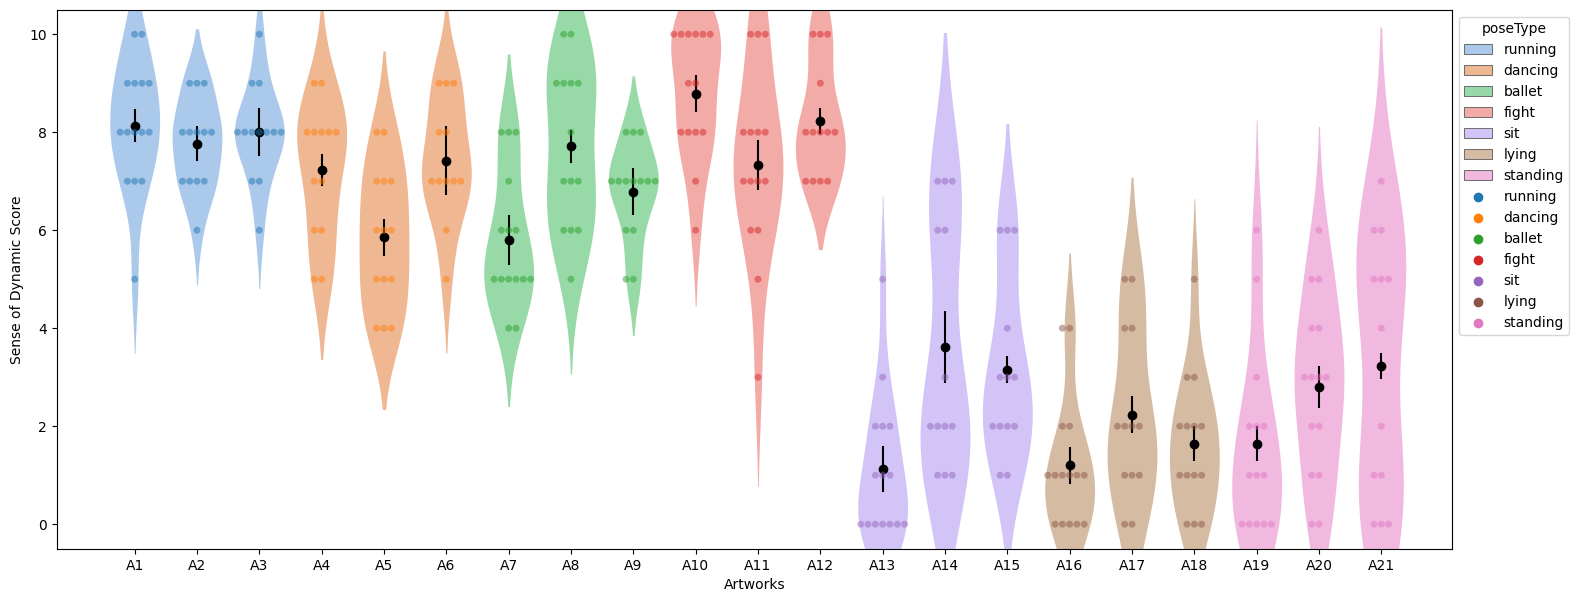
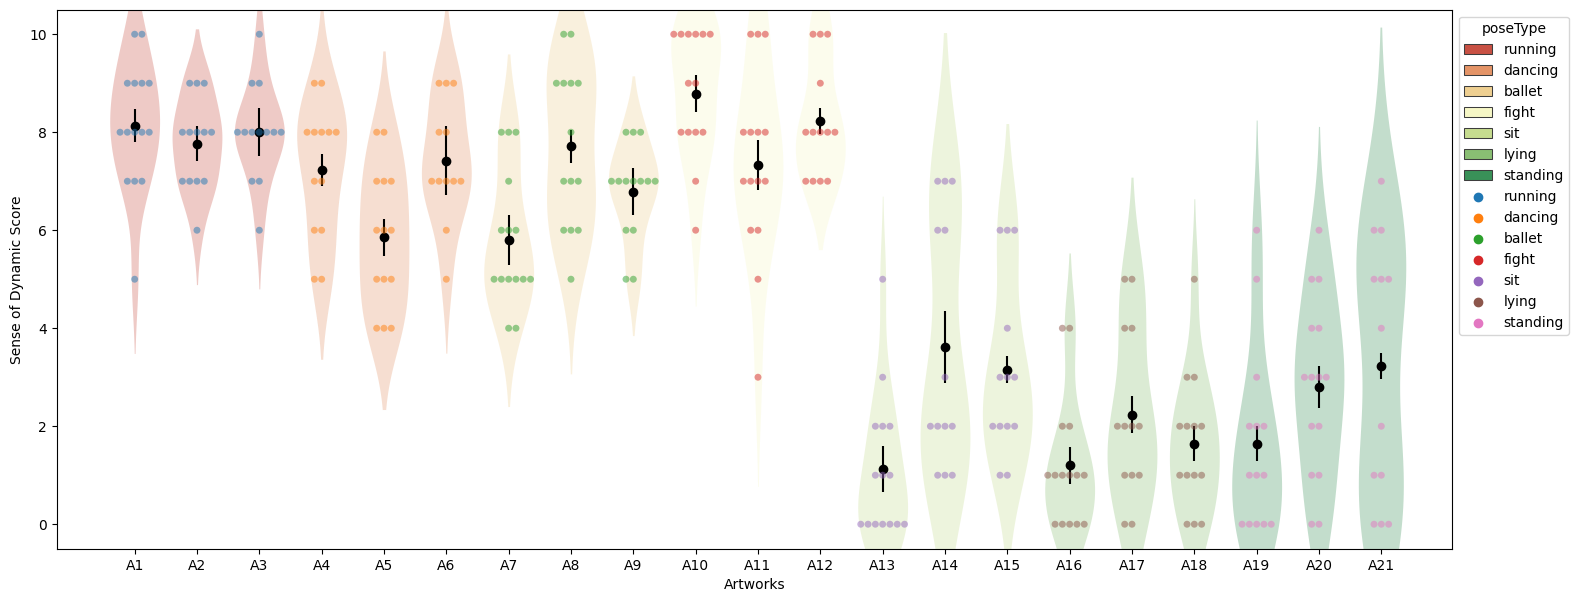
additional

Changed region(s): [[0.0621, 0.0, 0.5586, 0.7176], [0.5275, 0.0897, 0.8999, 0.9269], [0.931, 0.0598, 0.962, 0.299]]

diff --git a/code/artworkAnalyze.py b/code/artworkAnalyze.py
@@ -3,7 +3,8 @@ import numpy as np
 import matplotlib.pyplot as plt
 import seaborn as sns
 import matplotlib.image as mpimg 
-
+from PIL import Image
+#https://r02b.github.io/seaborn_palettes/
 
 def sod_graph():
     mean = df.groupby('artwork').sod.mean().reset_index()
@@ -15,11 +16,12 @@ def sod_graph():
     std = df.groupby('artwork').sod.std() / np.sqrt(df.groupby('artwork').sod.count())
 
     ax = plt.figure(figsize = (18,7))
-    ax = sns.violinplot(x="artwork", y="sod", data=df, hue="poseType", linewidthfloat=0.01, palette='pastel', dodge=False, inner=None)
+    ax = sns.violinplot(x="artwork", y="sod", data=df, hue="poseType", linewidthfloat=0.01, palette="RdYlGn", dodge=False, inner=None)
 
     violins = [c for i, c in enumerate(ax.collections)]  
     [v.set_edgecolor("white") for v in violins]  # 전체 violin edgecolor 변경
     [v.set_linewidth(0.01) for v in violins]  # 전체 violin edgecolor 변경
+    [v.set_alpha(0.3) for v in violins]
     violins[3].set_edgecolor("k")        # Sunday violin edgecolor 변경
 
     ax = sns.swarmplot (x="artwork", y="sod", data=df, dodge=False, hue="poseType", alpha=.5)
@@ -34,33 +36,41 @@ def sod_graph():
 def tempo_graph():
     df_new = df[['sod', 'tempo_score']].value_counts().reset_index(name='count')
     print(df_new.head(4))
+    df_ = df[df["artwork"] == 'A14'] 
+
     ax = plt.figure(figsize = (4,4))
-    ax = sns.relplot(data=df_new, x="sod", y="tempo_score",  size = 'count', hue="count")
-    ax = sns.jointplot(x="sod", y="tempo_score", data=df_new, kind="kde", color="grey")
+    #ax = sns.relplot(data=df_new, x="sod", y="tempo_score",  size = 'count', hue="count")
+    sns.set_theme(style="ticks")
+    ax = sns.jointplot(x="sod", y="tempo_score", data=df, kind="hist", alpha=0.0, cmap="Blues")
+    ax = sns.kdeplot(x="sod", y="tempo_score", data=df, fill=True, alpha=.7 ,cmap="Blues")
 
     #ax.set_xlabel("Tempo Level")
     #ax.set_ylabel("Sense of Dynamic Score")
-    plt.savefig('../plots/tempo_graph.png', bbox_inches='tight')
+    plt.savefig('../plots/corr_tempo.png', bbox_inches='tight')
 
 def pitch_graph():
     df_new = df[['sod', 'pitch_score']].value_counts().reset_index(name='count')
     print(df_new.head(4))
     ax = plt.figure(figsize = (4,4))
-    ax = sns.relplot(data=df_new, x="sod", y="pitch_score",  size = 'count', hue="count")
-
+    #ax = sns.relplot(data=df_new, x="sod", y="pitch_score",  size = 'count', hue="count")
+    ax = sns.jointplot(x="sod", y="pitch_score", data=df, kind="hist", alpha=0.0, cmap="Blues")
+    ax = sns.kdeplot(x="sod", y="pitch_score", data=df, fill=True, alpha=.7 ,cmap="Blues")
+    
     #ax.set_xlabel("Pitch Level")
     #ax.set_ylabel("Sense of Dynamic Score")
-    plt.savefig('../plots/pitch_graph.png', bbox_inches='tight')
+    plt.savefig('../plots/corr_pitch.png', bbox_inches='tight')
 
 def density_graph():
     df_new = df[['sod', 'density_score']].value_counts().reset_index(name='count')
     print(df_new.head(4))
     ax = plt.figure(figsize = (4,4))
-    ax = sns.relplot(data=df_new, x="sod", y="density_score",  size = 'count', hue="count")
+    #ax = sns.relplot(data=df_new, x="sod", y="density_score",  size = 'count', hue="count")
+    ax = sns.jointplot(x="sod", y="density_score", data=df, kind="hist", alpha=0.0, cmap="Blues")
+    ax = sns.kdeplot(x="sod", y="density_score", data=df, fill=True, alpha=.7 ,cmap="Blues")
 
     #ax.set_xlabel("Density Level")
     #ax.set_ylabel("Sense of Dynamic Score")
-    plt.savefig('../plots/density_graph.png', bbox_inches='tight')
+    plt.savefig('../plots/corr_density.png', bbox_inches='tight')
 
 def parsing(grid):
     grid = grid.replace('[','').replace(']','').split(',')
@@ -68,8 +78,8 @@ def parsing(grid):
     return grid
 
 def grid_heatmap(target_artwork):
-    bg = mpimg.imread('../paintings/' + target_artwork + '.png') 
-    
+    bg = Image.open('../paintings/' + target_artwork + '.jpg').convert('L')
+    #bg = mpimg.imread('../paintings/' + target_artwork + '.jpg') 
     df_art = df[df['artwork'] == target_artwork]
 
     df["grids"]=""
@@ -87,18 +97,22 @@ def grid_heatmap(target_artwork):
             grid_sum = np.asarray(grids)
         else:
             grid_sum += np.asarray(grids)
-        
+    
+    ax = plt.figure(figsize = (10,10))
+    ax = sns.heatmap(grid_sum, annot=True, cmap="Oranges", cbar=False, yticklabels=False, xticklabels=False)
+    ax.tick_params(left=False, bottom=False) ## other options are right and top
 
 
-    print(grid_sum)
-    ax = sns.heatmap(grid_sum, annot=True, cmap='Purples')
-
-    ax.imshow(bg, alpha=0.5,
+    ax.imshow(bg, alpha=0.7, cmap='gray',
           aspect = ax.get_aspect(),
           extent = ax.get_xlim() + ax.get_ylim(),
           zorder = 1) #put the map under the heatmap
 
-    #plt.show()
+    ax = sns.heatmap(grid_sum, annot=True, cmap="Oranges", cbar=False, yticklabels=False, xticklabels=False, alpha=.2)
+
+    plt.savefig('../plots/heatmap_' + target_artwork + '.png', bbox_inches='tight')
+    print(target_artwork + " Heatmap Created!")
+    plt.close()
 
 
 if __name__ == '__main__':
@@ -108,15 +122,18 @@ if __name__ == '__main__':
     df.sort_values('sort',inplace=True, ascending=True)
     df = df.drop('sort', axis=1)
         
-    sod_graph()
-    #plt.figure()
+    #sod_graph()
 
-    grid_heatmap("A1")    
+    #tempo_graph()
+    #pitch_graph()
+    #density_graph()
+
+    #run for each artwork 
+    for i in range(21):
+        grid_heatmap("A" + str(i+1))    
 
 
-tempo_graph()
-#pitch_graph()
-#density_graph()
+
 
 
 

diff --git a/code/finalDatasetClean.py b/code/finalDatasetClean.py
@@ -1,0 +1,79 @@
+import pandas as pd
+import numpy as np
+import matplotlib.pyplot as plt
+import seaborn as sns
+import glob
+import os
+from poseDictionary import poseDic 
+
+def scaleToNum(value): 
+    output = 0   
+    if (value ==  "매우 큰 영향(very huge)"):
+        output = 5
+    elif (value == "큰 영향 (huge)"):
+        output = 4
+    elif (value == "보통 (moderate)"):
+        output = 3
+    elif (value == "작은 영향 (minor)"):
+        output = 2
+    elif (value == "매우 작은 영향(very minor)"):
+        output = 1
+    else:
+        output = 0
+    return output 
+
+
+
+def transformCSV():
+    filePath = '../dataset/Final-Table 1.csv'
+    df = pd.read_csv(filePath)
+    df.replace(to_replace= "매우 큰 영향(very huge)", value=5, inplace=True)
+    df.replace(to_replace= "큰 영향 (huge)", value=4, inplace=True)
+    df.replace(to_replace= "보통 (moderate)", value=3, inplace=True)
+    df.replace(to_replace= "작은 영향 (minor)", value=2, inplace=True)
+    df.replace(to_replace= "매우 작은 영향(very minor)", value=1, inplace=True)
+
+    nickname = df.columns[0]
+    
+    element_pose = df.columns[1]
+    element_color = df.columns[2]
+    element_light = df.columns[3]
+    element_stroke = df.columns[4]
+    element_style = df.columns[5]
+    elemet_add = df.columns[6]
+
+    detail_poseSize = df.columns[7]
+    detail_arms = df.columns[8]
+    detail_inclination = df.columns[9]
+    detail_effort = df.columns[10]
+    detail_face = df.columns[11]
+    detail_activity = df.columns[12]
+    detail_number = df.columns[13]
+    detail_location = df.columns[14]
+    detail_humanColor = df.columns[15]
+    detail_bgColor = df.columns[16]
+
+    sod_a1 = df.columns[17] #nickname
+    sod_a2 = df.columns[18] #sod
+
+    df.rename(columns = {nickname : "nickname", sod_a1 : "sod_a1", sod_a2 : "sod_a2",
+                         element_pose : "element_pose", element_color : "element_color",
+                         element_light : "element_light", element_stroke : "element_stroke",
+                         element_style : "element_style", elemet_add : "elemet_add",
+                         
+                         detail_poseSize : "detail_poseSize", detail_arms : "detail_arms",
+                         detail_inclination : "detail_inclination", detail_effort : "detail_effort",
+                         detail_face : "detail_face", detail_activity : "detail_activity",
+                         detail_number : "detail_number", detail_location : "detail_location",
+                         detail_humanColor : "detail_humanColor", detail_bgColor : "detail_bgColor"}, inplace = True)
+
+    df = df[["nickname", "sod_a1", "sod_a2", "element_pose", "element_color", "element_light", "element_stroke", "element_style", "elemet_add",
+             "detail_poseSize", "detail_arms", "detail_inclination", "detail_effort", "detail_face", "detail_activity",
+             "detail_number", "detail_location", "detail_humanColor", "detail_bgColor"]]
+    
+
+    print(df.head())
+    df.to_csv('../dataset_cleanUp/final.csv')
+
+
+transformCSV()

diff --git a/code/finalAnalyze.py b/code/finalAnalyze.py
@@ -1,0 +1,52 @@
+import pandas as pd
+import numpy as np
+import matplotlib.pyplot as plt
+import seaborn as sns
+import matplotlib.image as mpimg 
+from PIL import Image
+#https://r02b.github.io/seaborn_palettes/
+
+
+df = pd.read_csv('../dataset_cleanUp/final.csv')
+
+
+def comparePose():
+
+    df_new = pd.melt(df, id_vars=['nickname'], value_vars=['sod_a1', 'sod_a2'], var_name='sod_source', value_name='sod_value' )
+    print(df_new.head(16))
+    ax = plt.figure(figsize = (8,8))
+    ax = sns.barplot(x="sod_source", y="sod_value", data=df_new)
+    ax.set(ylim=(0, 10))
+
+    plt.savefig('../plots/final_compare.png', bbox_inches='tight')
+
+
+
+def elementGraph():
+    df_new = pd.melt(df, id_vars=['nickname'], value_vars=["element_pose", "element_color", "element_light", "element_stroke", "element_style"], var_name='elements', value_name='value')
+    print(df_new.head(4))
+    ax = plt.figure(figsize = (8,4))
+
+    ax = sns.boxplot(data=df_new, x="elements", y="value",  width=0.3, boxprops=dict(alpha=.2), color="grey")
+    ax = sns.stripplot(x="elements", y="value", data=df_new, dodge=True, alpha=.25, zorder=1,color="black") 
+    #ax = sns.pointplot(data=df_new, x="elements", y="value", dodge=.8 - .8 / 3, palette="dark", errorbar=None, markers="d")
+
+    plt.savefig('../plots/final_element.png', bbox_inches='tight')
+
+
+def detailGraph():
+    df_new = pd.melt(df, id_vars=['nickname'], value_vars=["detail_poseSize", "detail_arms", "detail_inclination", "detail_effort", "detail_face", "detail_activity",
+             "detail_number", "detail_location", "detail_humanColor", "detail_bgColor"], var_name='details', value_name='value')
+    print(df_new.head(4))
+    ax = plt.figure(figsize = (16,5))
+
+    ax = sns.boxplot(data=df_new, x="details", y="value",  width=0.3, boxprops=dict(alpha=.2), color="grey")
+    ax = sns.stripplot(x="details", y="value", data=df_new, dodge=True, alpha=.25, zorder=1,color="black") 
+    #ax = sns.pointplot(data=df_new, x="elements", y="value", dodge=.8 - .8 / 3, palette="dark", errorbar=None, markers="d")
+
+    plt.savefig('../plots/final_detail.png', bbox_inches='tight')
+
+
+comparePose()
+elementGraph()
+detailGraph()
